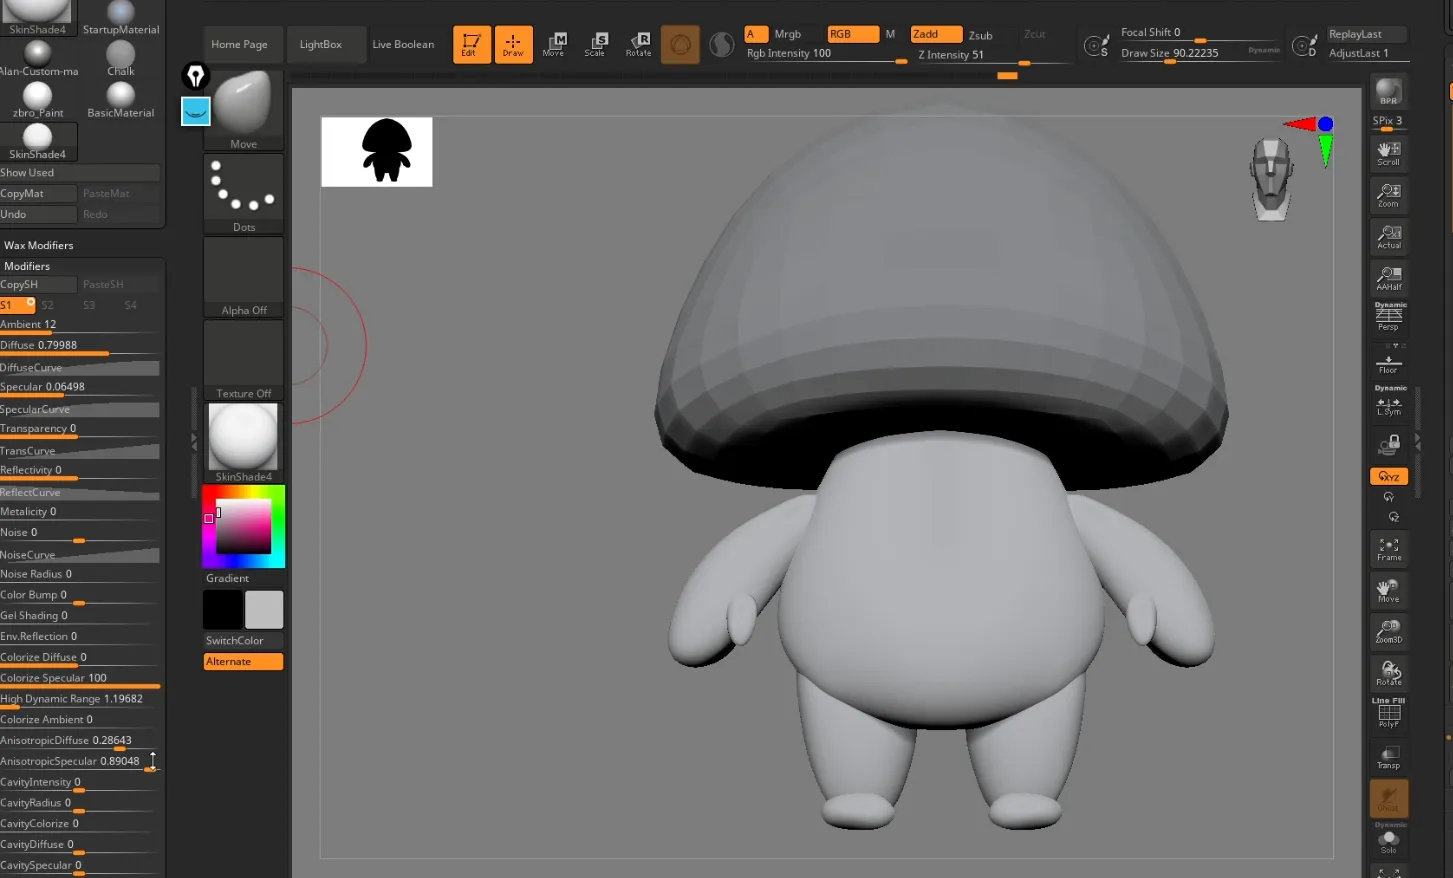
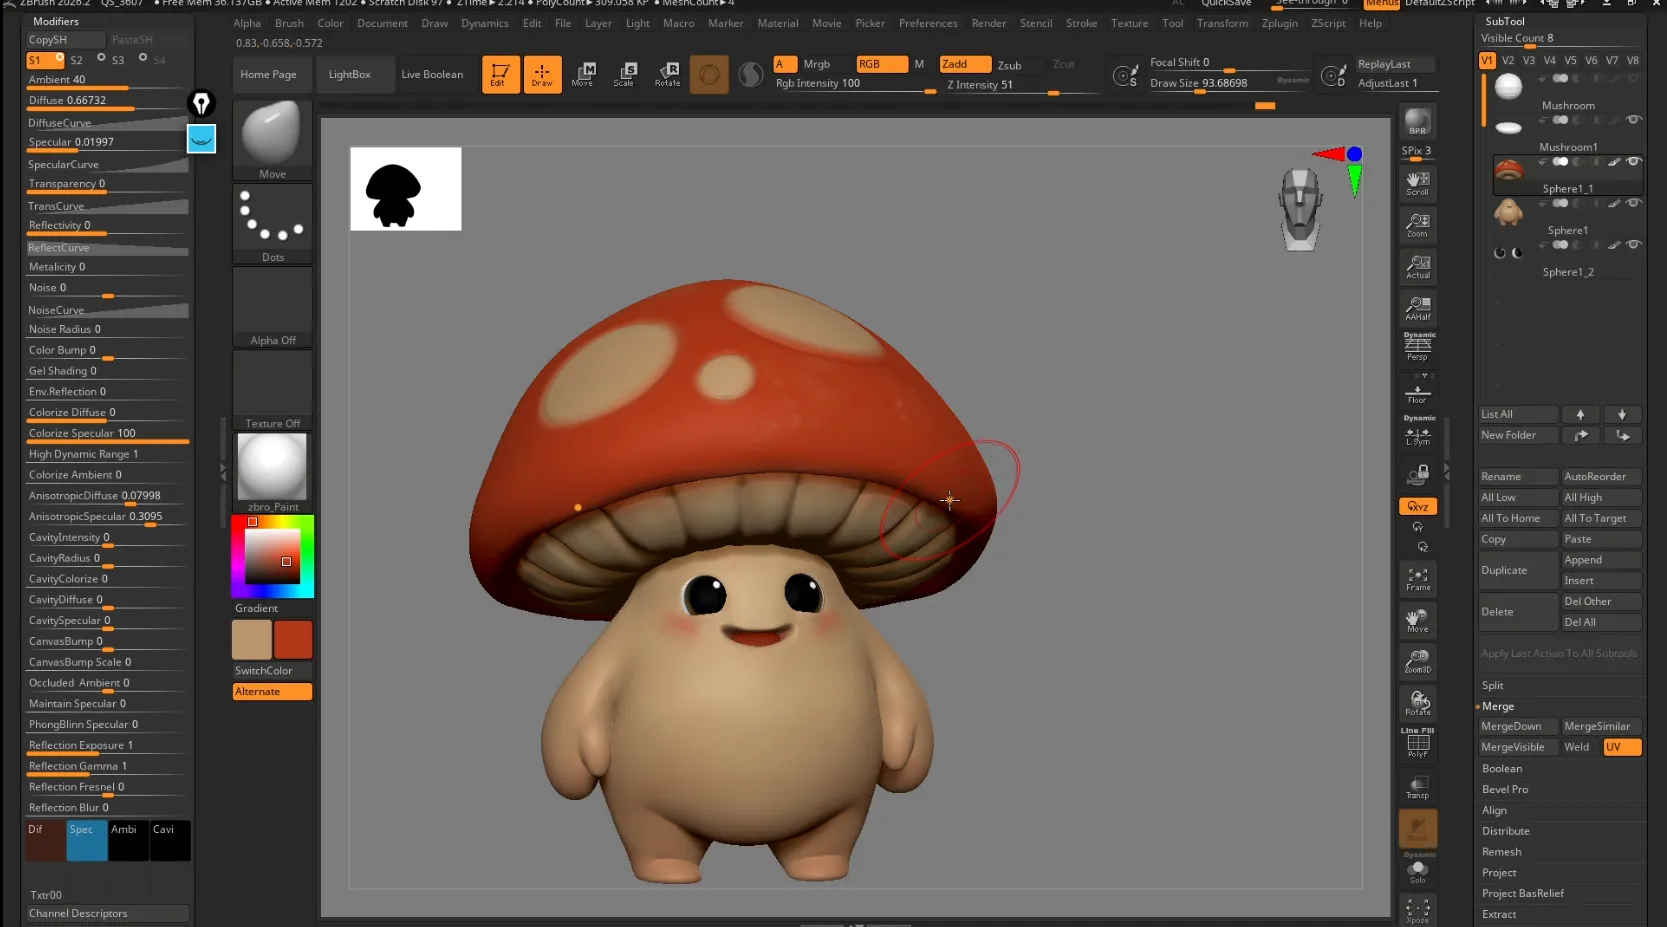
chore: update inside-02 lesson screenshot on Mushroom LP with new Drive version
Claude-Session: https://claude.ai/code/session_01MC34dctEKXYwUGvqkHSWta

diff --git a/courses/intro-to-zbrush-mushroom/index.html b/courses/intro-to-zbrush-mushroom/index.html
@@ -224,7 +224,7 @@ src="https://www.facebook.com/tr?id=999436976070756&ev=PageView&noscript=1"
     </div>
     <div class="inside__list">
       <img src="images/inside-01.webp" alt="ZBrush lesson with live annotations: main brushes and subdivision" width="1658" height="895" loading="lazy" decoding="async" class="reveal">
-      <img src="images/inside-02.webp" alt="Blocking the mushroom character in ZBrush" width="1453" height="878" loading="lazy" decoding="async" class="reveal">
+      <img src="images/inside-02.webp" alt="Blocking the mushroom character in ZBrush" width="1667" height="927" loading="lazy" decoding="async" class="reveal">
       <img src="images/inside-03.webp" alt="ZBrush lesson with live annotations: from 2.5D canvas to 3D mesh" width="1649" height="888" loading="lazy" decoding="async" class="reveal">
     </div>
   </div>
